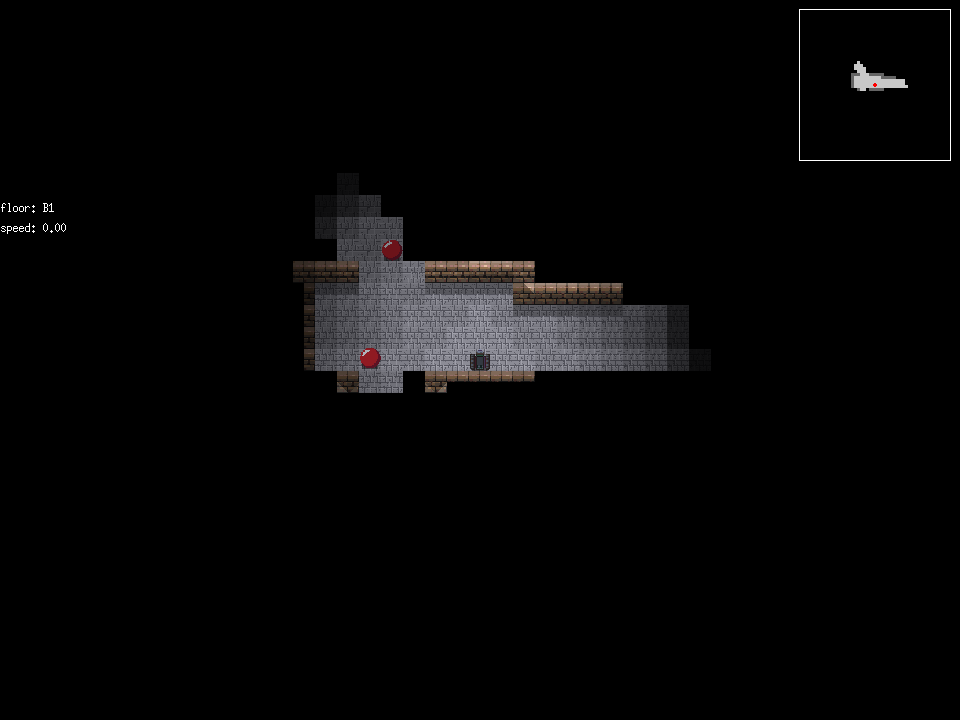
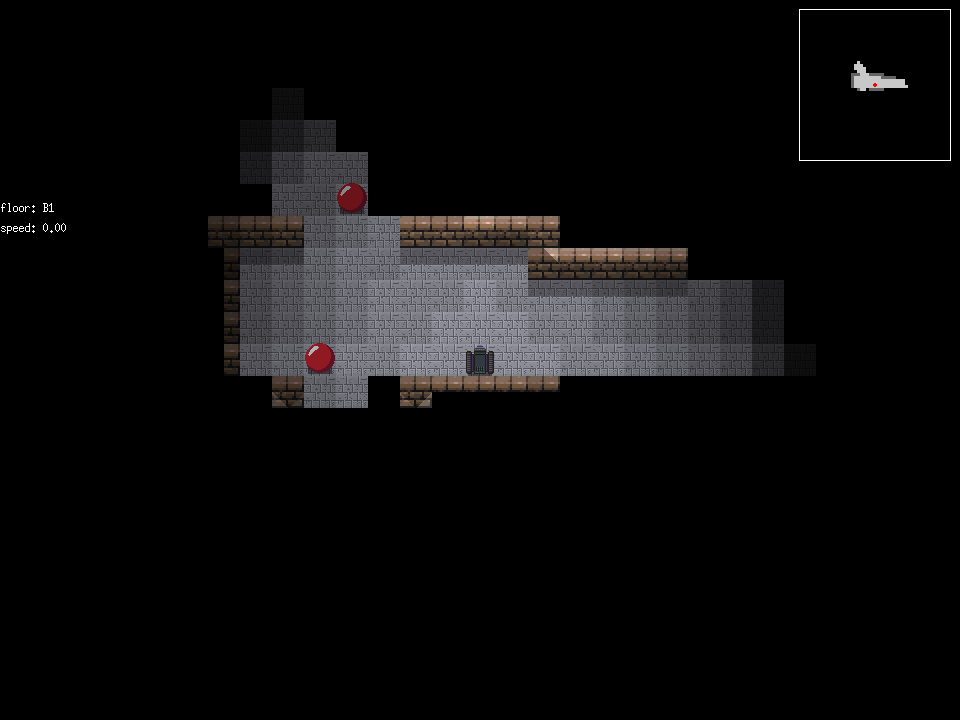
fix: VRT用にアニメーションを無効化する

Changed region(s): [[0.2188, 0.1528, 0.8438, 0.5806]]

diff --git a/lib/worldhelper/spawn.go b/lib/worldhelper/spawn.go
@@ -3,6 +3,7 @@ package worldhelper
 import (
 	"fmt"
 
+	"github.com/kijimaD/ruins/lib/config"
 	"github.com/kijimaD/ruins/lib/effects"
 	"github.com/kijimaD/ruins/lib/engine/entities"
 	"github.com/kijimaD/ruins/lib/raw"
@@ -111,9 +112,22 @@ func SpawnOperator(world w.World, x gc.Pixel, y gc.Pixel) {
 	// カメラ
 	{
 		componentList := entities.ComponentList{}
+		// config設定を確認
+		cfg := config.Get()
+		var scale, scaleTo float64
+		if cfg.DisableAnimation {
+			// アニメーション無効時は初期スケールを1に設定
+			scale = 1
+			scaleTo = 1
+		} else {
+			// アニメーション有効時はズームアウトアニメーション
+			scale = 0.1
+			scaleTo = 1
+		}
+
 		componentList.Game = append(componentList.Game, gc.GameComponentList{
 			Position: &gc.Position{X: x, Y: y},
-			Camera:   &gc.Camera{Scale: 0.1, ScaleTo: 1},
+			Camera:   &gc.Camera{Scale: scale, ScaleTo: scaleTo},
 		})
 		entities.AddEntities(world, componentList)
 	}

diff --git a/lib/config/config.go b/lib/config/config.go
@@ -37,7 +37,8 @@ type Config struct {
 	NoEncounter   bool   `env:"RUINS_NO_ENCOUNTER"`
 
 	// ゲーム設定
-	StartingState string `env:"RUINS_STARTING_STATE"`
+	StartingState    string `env:"RUINS_STARTING_STATE"`
+	DisableAnimation bool   `env:"RUINS_DISABLE_ANIMATION"`
 
 	// パフォーマンス設定
 	TargetFPS     int    `env:"RUINS_TARGET_FPS"`
@@ -124,6 +125,9 @@ func (c *Config) applyProductionDefaults() {
 	if os.Getenv("RUINS_STARTING_STATE") == "" {
 		c.StartingState = "main_menu"
 	}
+	if os.Getenv("RUINS_DISABLE_ANIMATION") == "" {
+		c.DisableAnimation = false
+	}
 
 	// パフォーマンス設定
 	if os.Getenv("RUINS_TARGET_FPS") == "" {
@@ -186,6 +190,9 @@ func (c *Config) applyDevelopmentDefaults() {
 	// ゲーム設定
 	if os.Getenv("RUINS_STARTING_STATE") == "" {
 		c.StartingState = "home_menu"
+	}
+	if os.Getenv("RUINS_DISABLE_ANIMATION") == "" {
+		c.DisableAnimation = false
 	}
 
 	// パフォーマンス設定

diff --git a/lib/vrt/vrt.go b/lib/vrt/vrt.go
@@ -10,6 +10,7 @@ import (
 	"path"
 
 	gc "github.com/kijimaD/ruins/lib/components"
+	"github.com/kijimaD/ruins/lib/config"
 	"github.com/kijimaD/ruins/lib/effects"
 	gs "github.com/kijimaD/ruins/lib/systems"
 
@@ -76,6 +77,13 @@ func (g *TestGame) Draw(screen *ebiten.Image) {
 
 // RunTestGame はテストゲームを実行してスクリーンショットを保存する
 func RunTestGame(state es.State, outputPath string) {
+	cfg, err := config.Load()
+	if err != nil {
+		panic(fmt.Sprintf("Failed to load config: %v", err))
+	}
+	// VRT用にアニメーションを無効化
+	cfg.DisableAnimation = true
+
 	world, err := game.InitWorld(960, 720)
 	if err != nil {
 		panic(fmt.Sprintf("InitWorld failed: %v", err))
